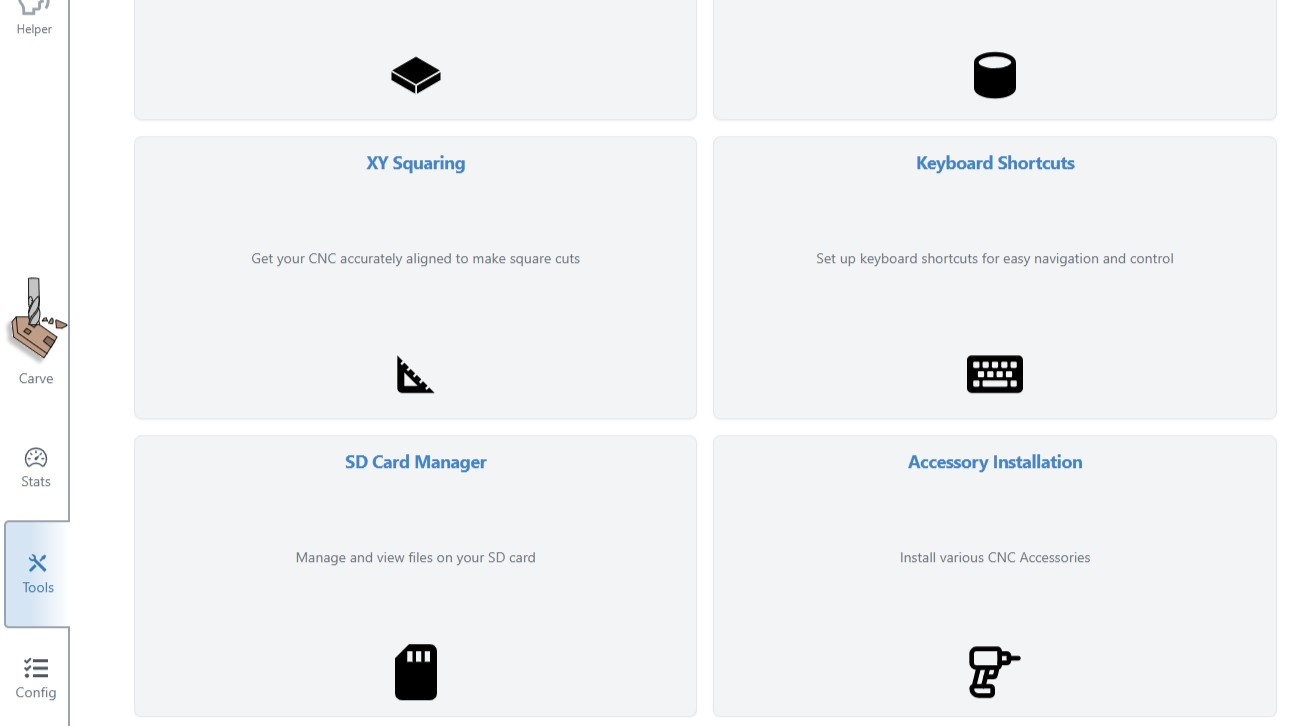
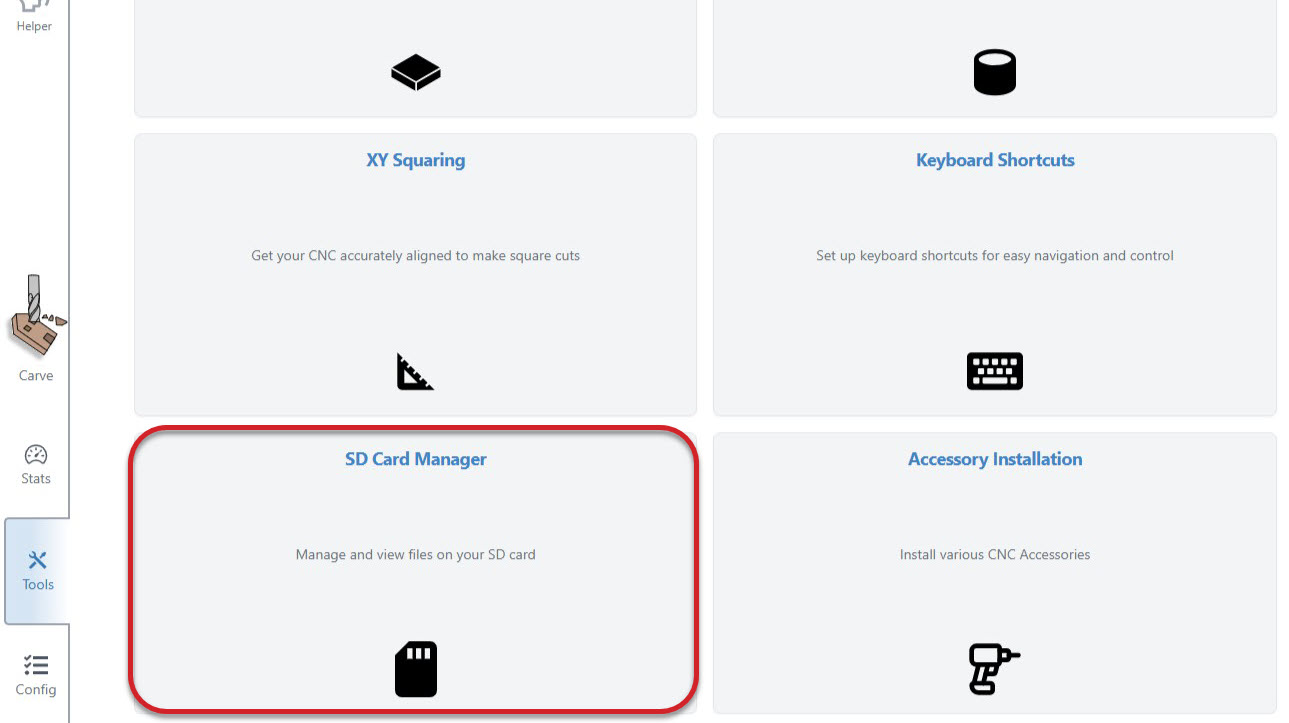
software sd card pics

diff --git a/atc/atc-assembly/atc-software.md b/atc/atc-assembly/atc-software.md
@@ -53,11 +53,14 @@ At this time you can reinstall your gControl panel and mount, [see mounting inst
 
 1. Open **gSender** and connect to your machine.
 1. Go to **Tools**.
-1. Go to **SD Card Manager**.
 1. If you haven't yet, insert the **microSD card** into the slot on the SLB-EXT.
+1. Go to **SD Card Manager**.
+
+    ![](/_images/_atc/_atc_assembly/_software/atc_assembly_soft_accessory.jpg){.aligncenter .size-medium}
+
 1. Ensure that gSender recognizes the card and shows it as **Mounted**
 
-![](/_images/_atc/_atc_assembly/_software/atc_assembly_soft_accessory.jpg){.aligncenter .size-medium}
+    ![](/_images/_atc/_atc_assembly/_software/atc_assembly_soft_sdmounted.jpg){.aligncenter .size-medium}
 
 * We strongly recommend using the microSD card provided with your kit.
 * Other SD cards may need to be reformatted to FAT32 and must not exceed a capacity of 32 GB.
